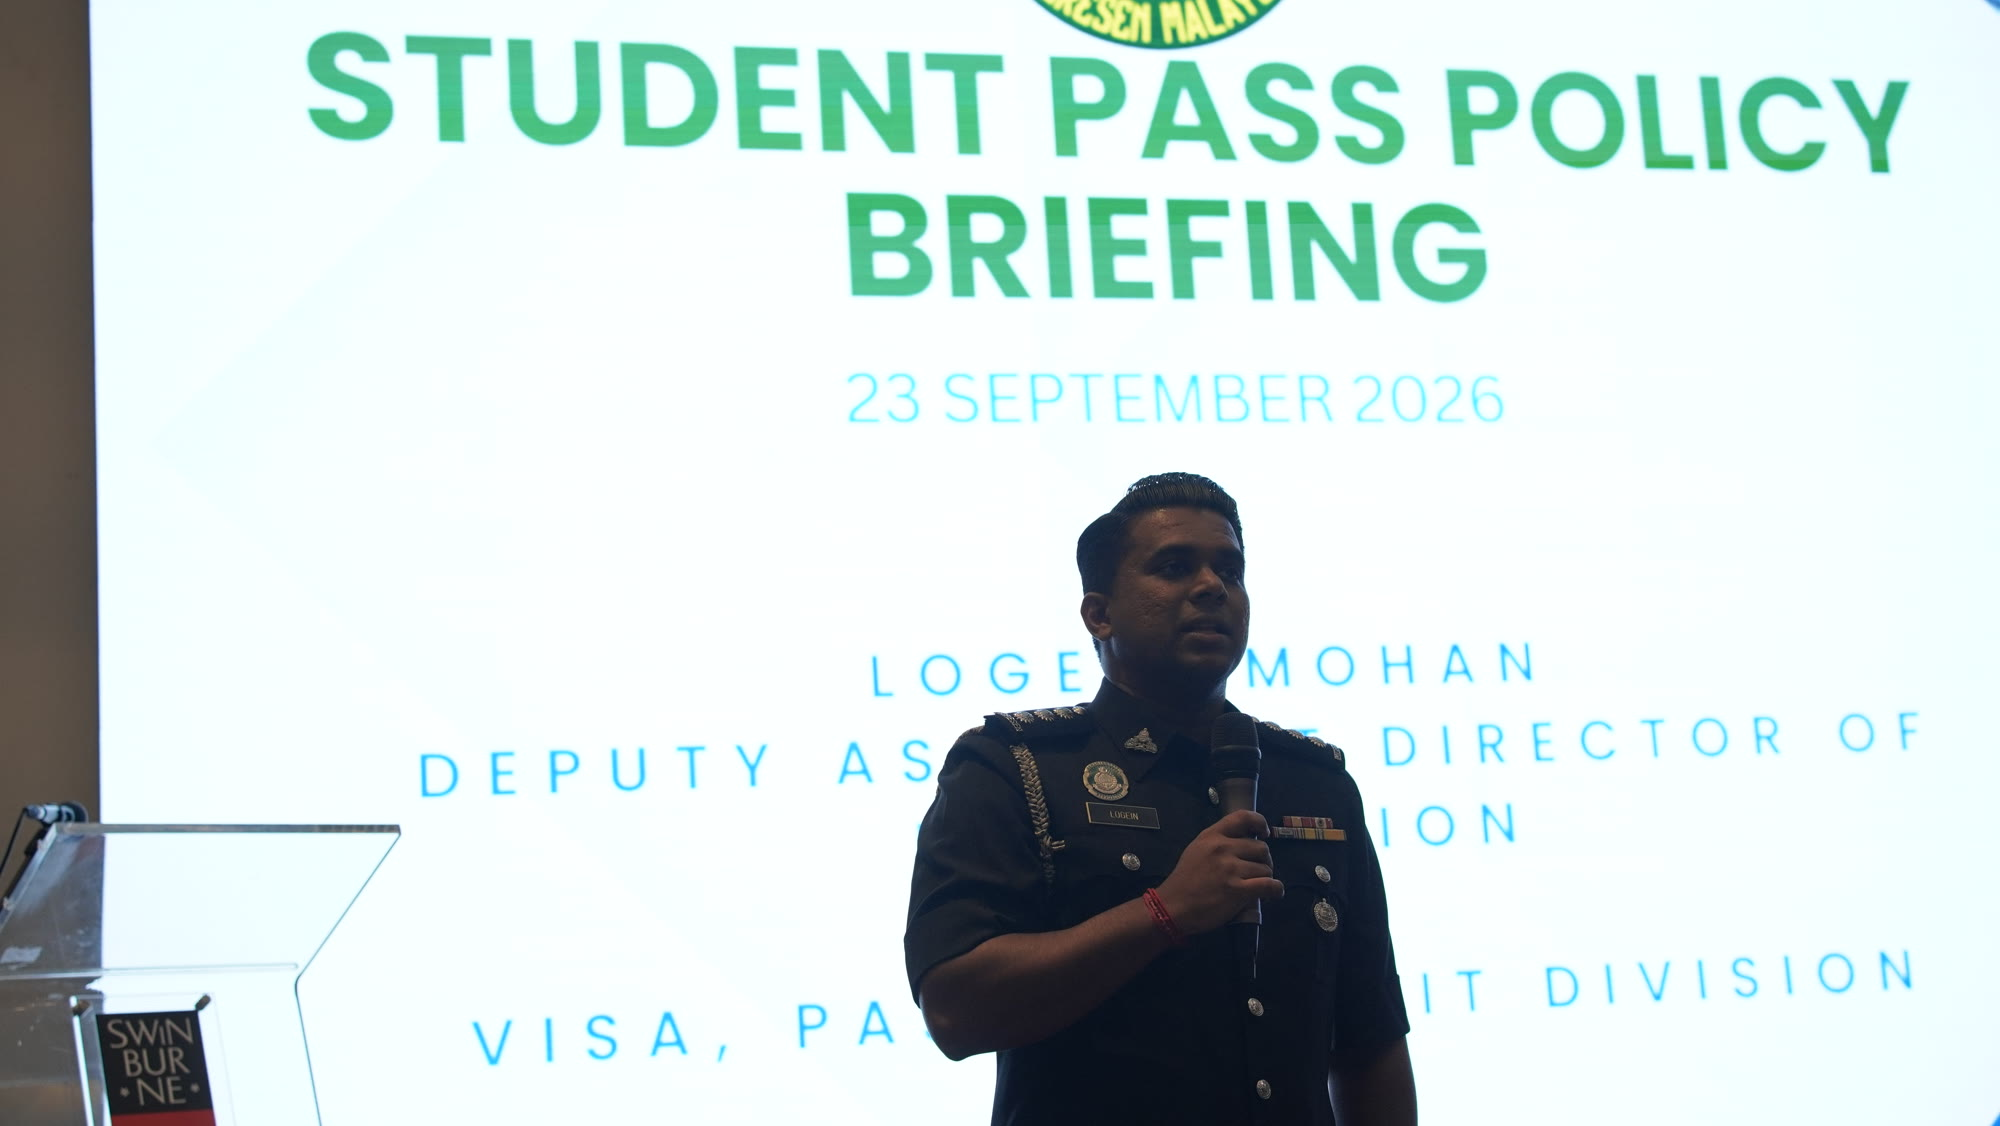
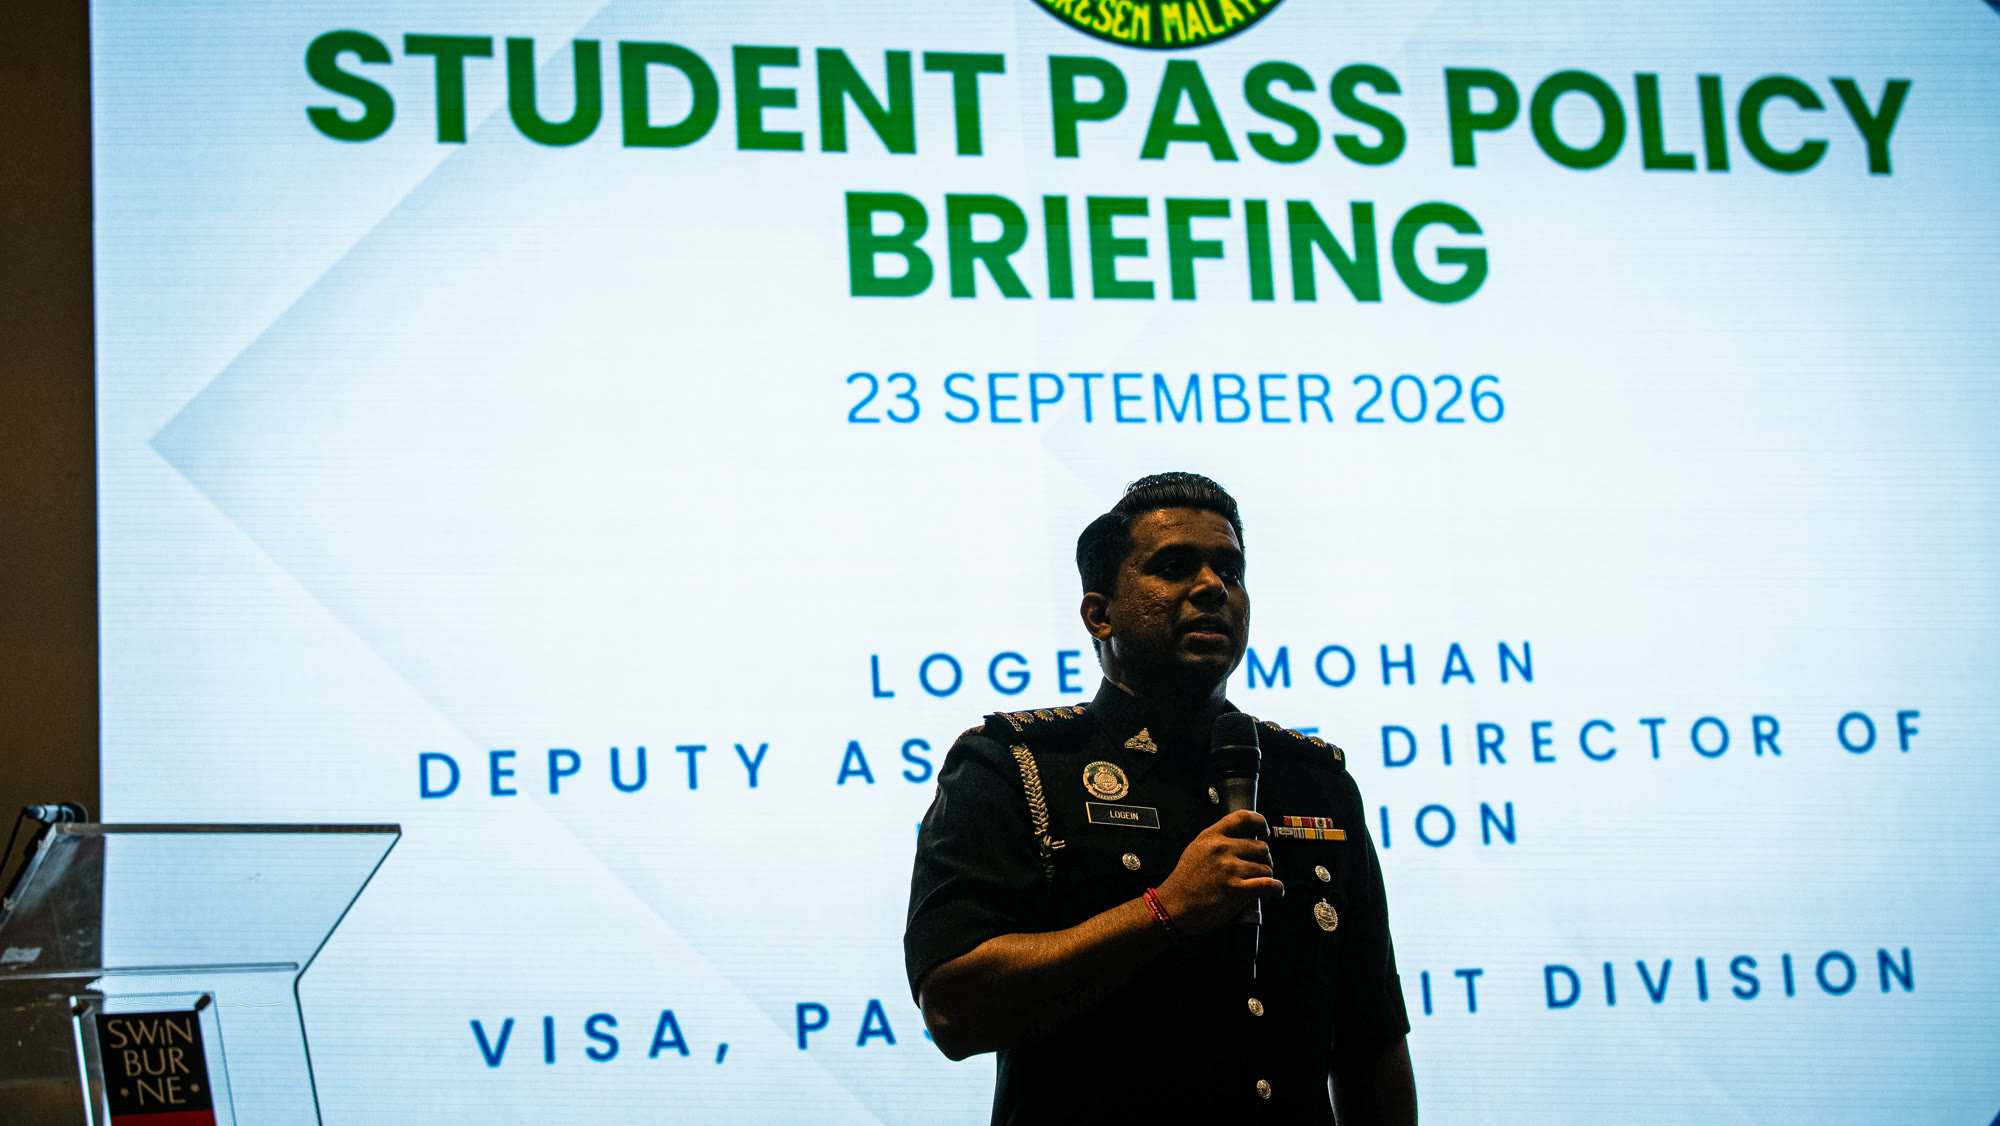
Add three wide shots and use Aubs's edited int mng photo

diff --git a/photos.js b/photos.js
@@ -15,13 +15,16 @@ window.PHOTOS = [
   {"src": "photos/aws-photographer.jpg", "title": "Frame 09", "event": "AWS Student Community Day 2026", "alt": "Close-up of a photographer in glasses with a DSLR held to his eye.", "w": 2000, "h": 1126, "camera": "Sony ZV-E10", "lens": "Viltrox 56mm", "aperture": "f/3.2", "shutter": "1/125 s", "iso": "ISO 3200", "date": "7 Oct 2026", "shot": "Close-up"},
   {"src": "photos/c2x-brownies.jpg", "title": "Frame 10", "event": "C2X 2026 · CPA Student Society", "alt": "A box of brownies cut into squares on a table.", "w": 2000, "h": 1334, "credit": "Alexzander Bryan", "date": "21 Oct 2026", "camera": "Sony A6400", "lens": "85mm", "aperture": "f/2", "shutter": "1/320 s", "iso": "ISO 500", "shot": "Detail shot"},
   {"src": "photos/pilates-bamboo-detail.jpg", "title": "Frame 11", "event": "Swinfit x ACE Studios · Pilates", "alt": "Close shot of feet stepping over a bamboo stick on the floor during a group game.", "w": 2000, "h": 1126, "camera": "Sony ZV-E10", "lens": "Viltrox 56mm", "aperture": "f/4.5", "shutter": "1/100 s", "iso": "ISO 400", "date": "24 Oct 2026", "shot": "Detail shot"},
-  {"src": "photos/ashrae-thumbs-up.jpg", "title": "Frame 12", "event": "ASHRAE-SSSB AGM", "alt": "Two smiling people at laptops giving thumbs up.", "w": 2000, "h": 1126, "camera": "Sony ZV-E10", "lens": "Viltrox 28mm", "aperture": "f/4.5", "shutter": "1/125 s", "iso": "ISO 1600", "date": "25 Sep 2026", "shot": "Two-shot"},
-  {"src": "photos/aws-photo-strip.jpg", "title": "Frame 13", "event": "AWS Student Community Day 2026", "alt": "A hand holding a photo-booth strip in front of a blurred 'Student Community' backdrop.", "w": 2000, "h": 1126, "camera": "Sony ZV-E10", "lens": "Viltrox 56mm", "aperture": "f/4", "shutter": "1/125 s", "iso": "ISO 1600", "date": "7 Oct 2026", "shot": "Detail shot"},
-  {"src": "photos/aws-last-10-mins.jpg", "title": "Frame 14", "event": "AWS Student Community Day 2026", "alt": "Two people seen from behind, facing a stage screen that reads 'Last 10 Mins'.", "w": 2000, "h": 1126, "camera": "Sony ZV-E10", "lens": "Viltrox 56mm", "aperture": "f/4.5", "shutter": "1/125 s", "iso": "ISO 3200", "date": "7 Oct 2026", "shot": "Over-the-shoulder"},
-  {"src": "photos/ashrae-clapping.jpg", "title": "Frame 15", "event": "ASHRAE-SSSB AGM", "alt": "Seated audience members clapping, seen from the side.", "w": 2000, "h": 1126, "camera": "Sony ZV-E10", "lens": "Viltrox 56mm", "aperture": "f/4", "shutter": "1/125 s", "iso": "ISO 800", "date": "25 Sep 2026", "shot": "Medium shot"},
-  {"src": "photos/c2x-team-walking.jpg", "title": "Frame 16", "event": "C2X 2026 · CPA Student Society", "alt": "A group of people in black walking down a corridor, one carrying a box, a camera hanging at the side.", "w": 2000, "h": 1334, "credit": "Alexzander Bryan", "date": "21 Oct 2026", "camera": "Sony A6400", "lens": "85mm", "aperture": "f/2", "shutter": "1/125 s", "iso": "ISO 2000", "shot": "Medium full shot"},
-  {"src": "photos/roadshow-topic-sharing.jpg", "title": "Frame 17", "event": "SSC Roadshow", "alt": "A student in a blue shirt holding a 'Topic Sharing' banner while an audience cheers behind.", "w": 2000, "h": 1502, "camera": "Sony ZV-E10", "lens": "Viltrox 56mm", "aperture": "f/2.5", "shutter": "1/200 s", "iso": "ISO 800", "date": "18 Sep 2026", "shot": "Wide shot"},
-  {"src": "photos/aws-hands-camera.jpg", "title": "Frame 18", "event": "AWS Student Community Day 2026", "alt": "Hands typing on a laptop while another person holds a camera, seen from the side.", "w": 2000, "h": 1126, "camera": "Sony ZV-E10", "lens": "Viltrox 56mm", "aperture": "f/3.2", "shutter": "1/125 s", "iso": "ISO 1000", "date": "7 Oct 2026", "shot": "Over-the-hip"},
-  {"src": "photos/pilates-arms-overhead.jpg", "title": "Frame 19", "event": "Swinfit x ACE Studios · Pilates", "alt": "Participants in an outdoor fitness class stretching their arms overhead in front of greenery.", "w": 2000, "h": 1126, "camera": "Sony ZV-E10", "lens": "Viltrox 56mm", "aperture": "f/4.5", "shutter": "1/125 s", "iso": "ISO 1000", "date": "24 Oct 2026", "shot": "Full shot"},
-  {"src": "photos/intmng-silhouette.jpg", "title": "Frame 20", "event": "International Meet and Greet", "alt": "A speaker in silhouette in front of a large slide titled 'Student Pass Policy Briefing'.", "w": 2000, "h": 1126, "camera": "Sony ZV-E10", "lens": "35mm", "aperture": "f/2.8", "shutter": "1/160 s", "iso": "ISO 640", "date": "23 Sep 2026", "shot": "Wide shot"}
+  {"src": "photos/pilates-mats-wide.jpg", "title": "Frame 12", "event": "Swinfit x ACE Studios · Pilates", "alt": "Wide view from above of people on yoga mats spread across a bright atrium floor.", "w": 2000, "h": 1126, "shot": "Wide shot", "date": "24 Oct 2026", "camera": "Sony ZV-E10", "lens": "Viltrox 9mm", "aperture": "f/4", "shutter": "1/125 s", "iso": "ISO 200"},
+  {"src": "photos/ashrae-thumbs-up.jpg", "title": "Frame 13", "event": "ASHRAE-SSSB AGM", "alt": "Two smiling people at laptops giving thumbs up.", "w": 2000, "h": 1126, "camera": "Sony ZV-E10", "lens": "Viltrox 28mm", "aperture": "f/4.5", "shutter": "1/125 s", "iso": "ISO 1600", "date": "25 Sep 2026", "shot": "Two-shot"},
+  {"src": "photos/aws-photo-strip.jpg", "title": "Frame 14", "event": "AWS Student Community Day 2026", "alt": "A hand holding a photo-booth strip in front of a blurred 'Student Community' backdrop.", "w": 2000, "h": 1126, "camera": "Sony ZV-E10", "lens": "Viltrox 56mm", "aperture": "f/4", "shutter": "1/125 s", "iso": "ISO 1600", "date": "7 Oct 2026", "shot": "Detail shot"},
+  {"src": "photos/aws-stage-group.jpg", "title": "Frame 15", "event": "AWS Student Community Day 2026", "alt": "Wide shot of a large group posed on a stage under the 'Student Community Day' screen.", "w": 2000, "h": 1126, "shot": "Wide shot", "date": "7 Oct 2026", "camera": "Sony ZV-E10", "lens": "Viltrox 9mm", "aperture": "f/2.8", "shutter": "1/125 s", "iso": "ISO 1600"},
+  {"src": "photos/aws-last-10-mins.jpg", "title": "Frame 16", "event": "AWS Student Community Day 2026", "alt": "Two people seen from behind, facing a stage screen that reads 'Last 10 Mins'.", "w": 2000, "h": 1126, "camera": "Sony ZV-E10", "lens": "Viltrox 56mm", "aperture": "f/4.5", "shutter": "1/125 s", "iso": "ISO 3200", "date": "7 Oct 2026", "shot": "Over-the-shoulder"},
+  {"src": "photos/ashrae-clapping.jpg", "title": "Frame 17", "event": "ASHRAE-SSSB AGM", "alt": "Seated audience members clapping, seen from the side.", "w": 2000, "h": 1126, "camera": "Sony ZV-E10", "lens": "Viltrox 56mm", "aperture": "f/4", "shutter": "1/125 s", "iso": "ISO 800", "date": "25 Sep 2026", "shot": "Medium shot"},
+  {"src": "photos/c2x-team-walking.jpg", "title": "Frame 18", "event": "C2X 2026 · CPA Student Society", "alt": "A group of people in black walking down a corridor, one carrying a box, a camera hanging at the side.", "w": 2000, "h": 1334, "credit": "Alexzander Bryan", "date": "21 Oct 2026", "camera": "Sony A6400", "lens": "85mm", "aperture": "f/2", "shutter": "1/125 s", "iso": "ISO 2000", "shot": "Medium full shot"},
+  {"src": "photos/roadshow-topic-sharing.jpg", "title": "Frame 19", "event": "SSC Roadshow", "alt": "A student in a blue shirt holding a 'Topic Sharing' banner while an audience cheers behind.", "w": 2000, "h": 1502, "camera": "Sony ZV-E10", "lens": "Viltrox 56mm", "aperture": "f/2.5", "shutter": "1/200 s", "iso": "ISO 800", "date": "18 Sep 2026", "shot": "Wide shot"},
+  {"src": "photos/aws-hands-camera.jpg", "title": "Frame 20", "event": "AWS Student Community Day 2026", "alt": "Hands typing on a laptop while another person holds a camera, seen from the side.", "w": 2000, "h": 1126, "camera": "Sony ZV-E10", "lens": "Viltrox 56mm", "aperture": "f/3.2", "shutter": "1/125 s", "iso": "ISO 1000", "date": "7 Oct 2026", "shot": "Over-the-hip"},
+  {"src": "photos/pilates-arms-overhead.jpg", "title": "Frame 21", "event": "Swinfit x ACE Studios · Pilates", "alt": "Participants in an outdoor fitness class stretching their arms overhead in front of greenery.", "w": 2000, "h": 1126, "camera": "Sony ZV-E10", "lens": "Viltrox 56mm", "aperture": "f/4.5", "shutter": "1/125 s", "iso": "ISO 1000", "date": "24 Oct 2026", "shot": "Full shot"},
+  {"src": "photos/intmng-silhouette.jpg", "title": "Frame 22", "event": "International Meet and Greet", "alt": "A speaker in silhouette in front of a large slide titled 'Student Pass Policy Briefing'.", "w": 2000, "h": 1126, "camera": "Sony ZV-E10", "lens": "35mm", "aperture": "f/2.8", "shutter": "1/160 s", "iso": "ISO 640", "date": "23 Sep 2026", "shot": "Wide shot"},
+  {"src": "photos/intmng-hall-wide.jpg", "title": "Frame 23", "event": "International Meet and Greet", "alt": "Wide view of a lecture hall with a few students scattered across the seats.", "w": 2000, "h": 1126, "shot": "Wide shot", "date": "23 Sep 2026", "camera": "Sony ZV-E10", "lens": "Viltrox 28mm", "aperture": "f/4.5", "shutter": "1/125 s", "iso": "ISO 4000"}
 ];
